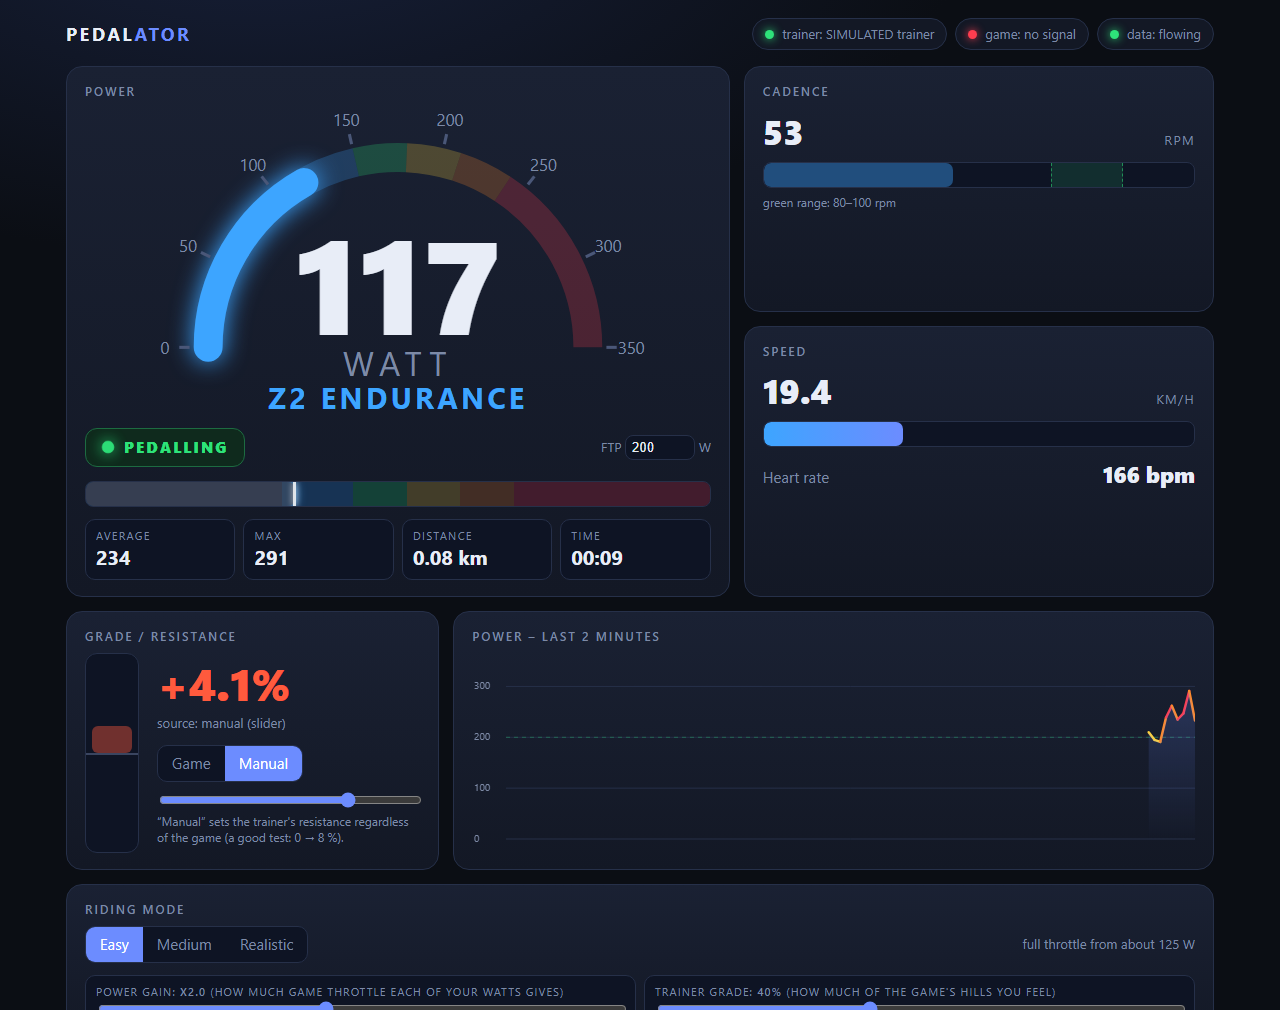
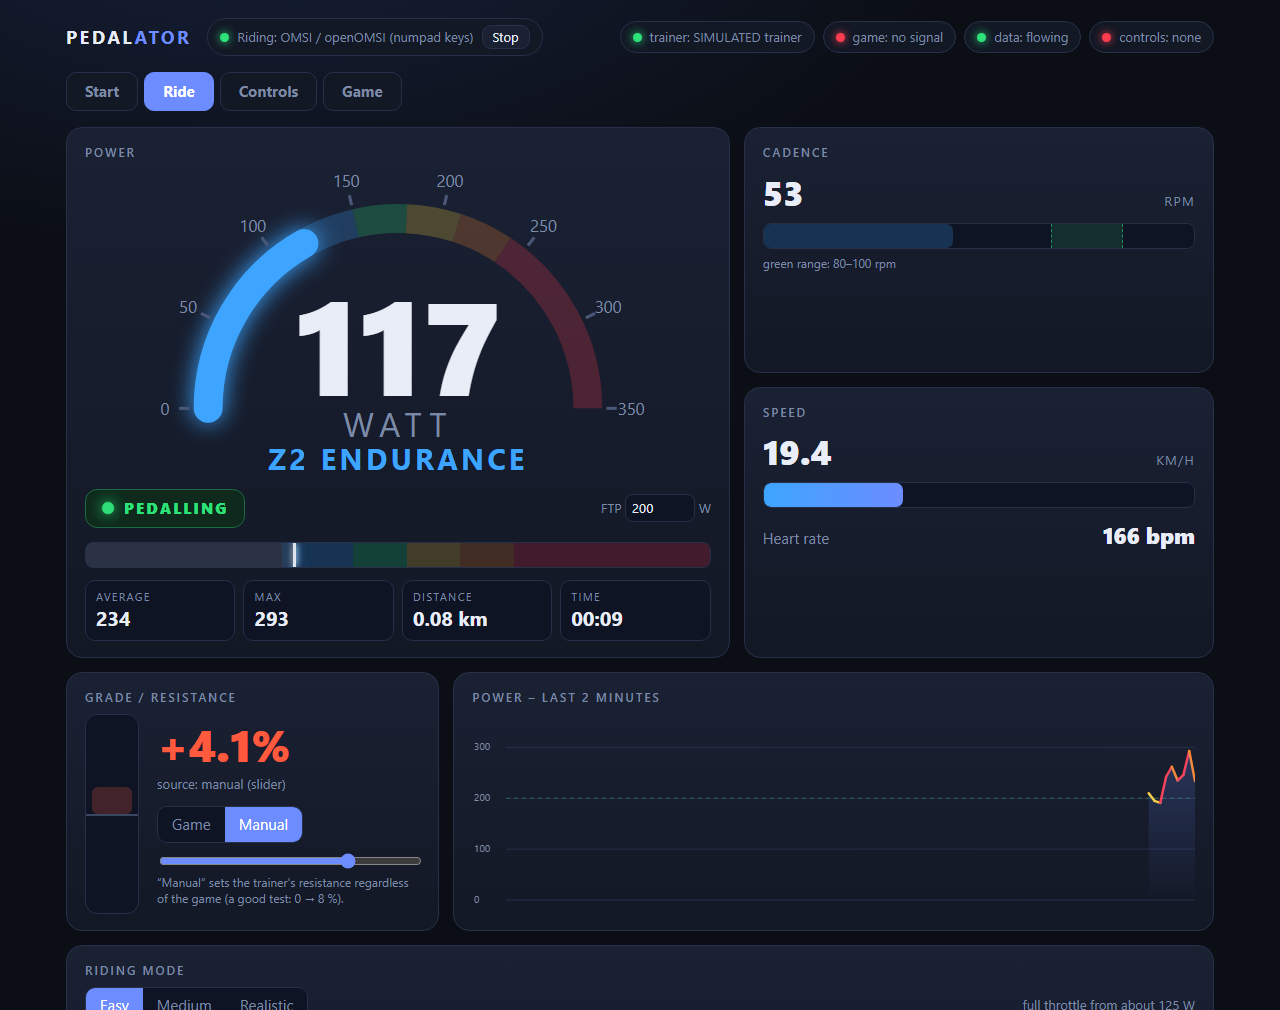
Release 0.2.0: version, changelog, roadmap, fresh demo
The roadmap follows what was tried on real hardware (a USB adapter, a D500
trainer and a Zwift Click) and what was added since; the demo tool sends
JSON content types again (the dashboard refuses anything else); the demo
image and GIF show the new Start/Ride/Controls/Game dashboard.

diff --git a/tools/make_demo.py b/tools/make_demo.py
@@ -40,7 +40,8 @@ def find_chrome() -> str:
 
 
 def post(port: int, path: str, body: dict) -> None:
-    req = urllib.request.Request(f"http://127.0.0.1:{port}{path}", data=json.dumps(body).encode(), method="POST")
+    req = urllib.request.Request(f"http://127.0.0.1:{port}{path}", data=json.dumps(body).encode(), method="POST",
+                                 headers={"Content-Type": "application/json"})
     urllib.request.urlopen(req, timeout=3).read()
 
 

diff --git a/pedalator/__init__.py b/pedalator/__init__.py
@@ -1,3 +1,3 @@
 """Pedalator: ride games with a smart trainer."""
 
-__version__ = "0.1.0"
+__version__ = "0.2.0"

diff --git a/docs/roadmap.md b/docs/roadmap.md
@@ -6,9 +6,9 @@ Pedalator works today with [OpenMW](games/openmw.md), [openOMSI](games/openomsi.
 
 The five milestones the maintainer plans to build first (the **Start page** that chooses the game and starts the session from the dashboard is built too: see the changelog), in the order of the suggested path. They are the best places to help, too: open an issue to say you are on one.
 
-> Suggested order: **5 ✅ → 1 (built, awaiting a hardware test) → 2 (built) → 3 → 4**. (5 is small and useful at once; 1 and 2 finish "ride with just a USB adapter or a laptop"; 3 is the biggest piece and 4 builds on it.)
+> Suggested order: **5 ✅ → 1 (built, partly tried on hardware) → 2 (built, awaiting a hardware test) → 3 ✅ → 4 ✅ (but the socket-less template)**. (5 is small and useful at once; 1 and 2 finish "ride with just a USB adapter or a laptop"; 3 is the biggest piece and 4 builds on it.)
 
-### 1. Zwift Click over the PC's Bluetooth (no phone) — built, needs a hardware test
+### 1. Zwift Click over the PC's Bluetooth (no phone) — built, partly tried on hardware
 
 **Why.** With a USB Bluetooth 5 adapter the PC reads the trainer itself, but today the Click is read only by the phone/laptop page. One device, no browser, no certificates.
 
@@ -18,7 +18,7 @@ The five milestones the maintainer plans to build first (the **Start page** that
 
 **Done when.** `pedalator --target openmw` with a USB adapter reads the trainer *and* the Click, every button works, and no phone is involved.
 
-**Status.** Built (`pedalator/click.py`) and tested against a fake `bleak` and shared decoder vectors; **not yet tried on a real Click through the PC's adapter**. Scans of the trainer and the Click are serialised.
+**Status.** Built (`pedalator/click.py`) and tested against a fake `bleak` and shared decoder vectors. **Tried on real hardware** (a TP-Link UB600 adapter, a Decathlon D500 trainer and a Zwift Click): the PC found and connected both and ran Morrowind. Still open: a long ride on one adapter, and a clean disconnect of both devices on Stop. Scans of the trainer and the Click are serialised.
 
 ### 2. Hybrid mode: trainer on the PC, Click on a laptop or phone — ✅ built
 
@@ -28,7 +28,7 @@ The five milestones the maintainer plans to build first (the **Start page** that
 
 **Done when.** `pedalator --trainer pc --click phone` runs, with the laptop connecting only the Click.
 
-**Status.** Built. Instead of a `?only=` parameter the page asks the PC what it wants (`/phone/ping`) and hides the rest; the PC refuses data it does not want. Needs a hardware test together with milestone 1.
+**Status.** Built; **not yet tried on hardware**. Instead of a `?only=` parameter the page asks the PC what it wants (`/phone/ping`) and hides the rest; the PC refuses data it does not want. Needs a hardware test together with milestone 1.
 
 ### 3. Profiles: import and export of a game's configuration, remappable keys in the dashboard
 
@@ -140,6 +140,9 @@ Status: ✅ done · 💡 idea. "Effort" is a rough guess. APIs of these games ch
 
 ### Experience
 
+- 💡 **A "stop" for trainers that estimate power from a flywheel** (the Decathlon D500 among them): their power fades over 10 s or more after you stop, so the game keeps moving. Ideas: a Click button that zeroes the gas until you pedal again, and treating a sudden drop of power as a stop. See [troubleshooting](troubleshooting.md#the-game-keeps-moving-for-a-few-seconds-after-i-stop-pedalling).
+- ✅ **Bluetooth signal strength** (header and a range check on the Start page), the **Flow check** (times the signal stage by stage) and the **gas options** (*Smooth the gas*, *No gas below*): see the changelog.
+
 - 💡 **Per-vehicle gas curves** in OMSI (bicycle vs bus): a different gas curve for each, chosen automatically from the plugin.
 - 💡 **In-game overlay** of power, cadence and grade.
 - 💡 **Heart-rate and zone** handling (limit effort, "stay in Z2" challenges).
@@ -148,7 +151,8 @@ Status: ✅ done · 💡 idea. "Effort" is a rough guess. APIs of these games ch
 
 ### Project
 
-- 💡 **`pedalator doctor`** command: checks Python, Bluetooth, ports, firewall, game installs.
+- 💡 **`pedalator doctor`** command: checks Python, Bluetooth, ports, firewall, game installs (the Start page's signal check and the Flow check cover part of it).
+- ✅ **Start page and sessions:** choose a game and start or stop a ride from the dashboard, no restart needed.
 - 💡 **Config file** (TOML) and remembered settings.
 - 💡 **Windows installer / single-file exe** (PyInstaller), and a PyPI package.
 - 💡 More dashboard languages (translations live in a small dictionary at the top of each page script).

diff --git a/CHANGELOG.md b/CHANGELOG.md
@@ -4,6 +4,8 @@ All notable changes to this project are documented here. The format follows [Kee
 
 ## [Unreleased]
 
+## [0.2.0] — the launcher
+
 ### Changed
 - The throttle key's loop asks Windows for 1 ms timer ticks, so it runs every 50 ms instead of 62.5 ms (a finer "gas").
 - The dashboard's default port is now **2137** (was 8765); `--dashboard-port` still sets it.
